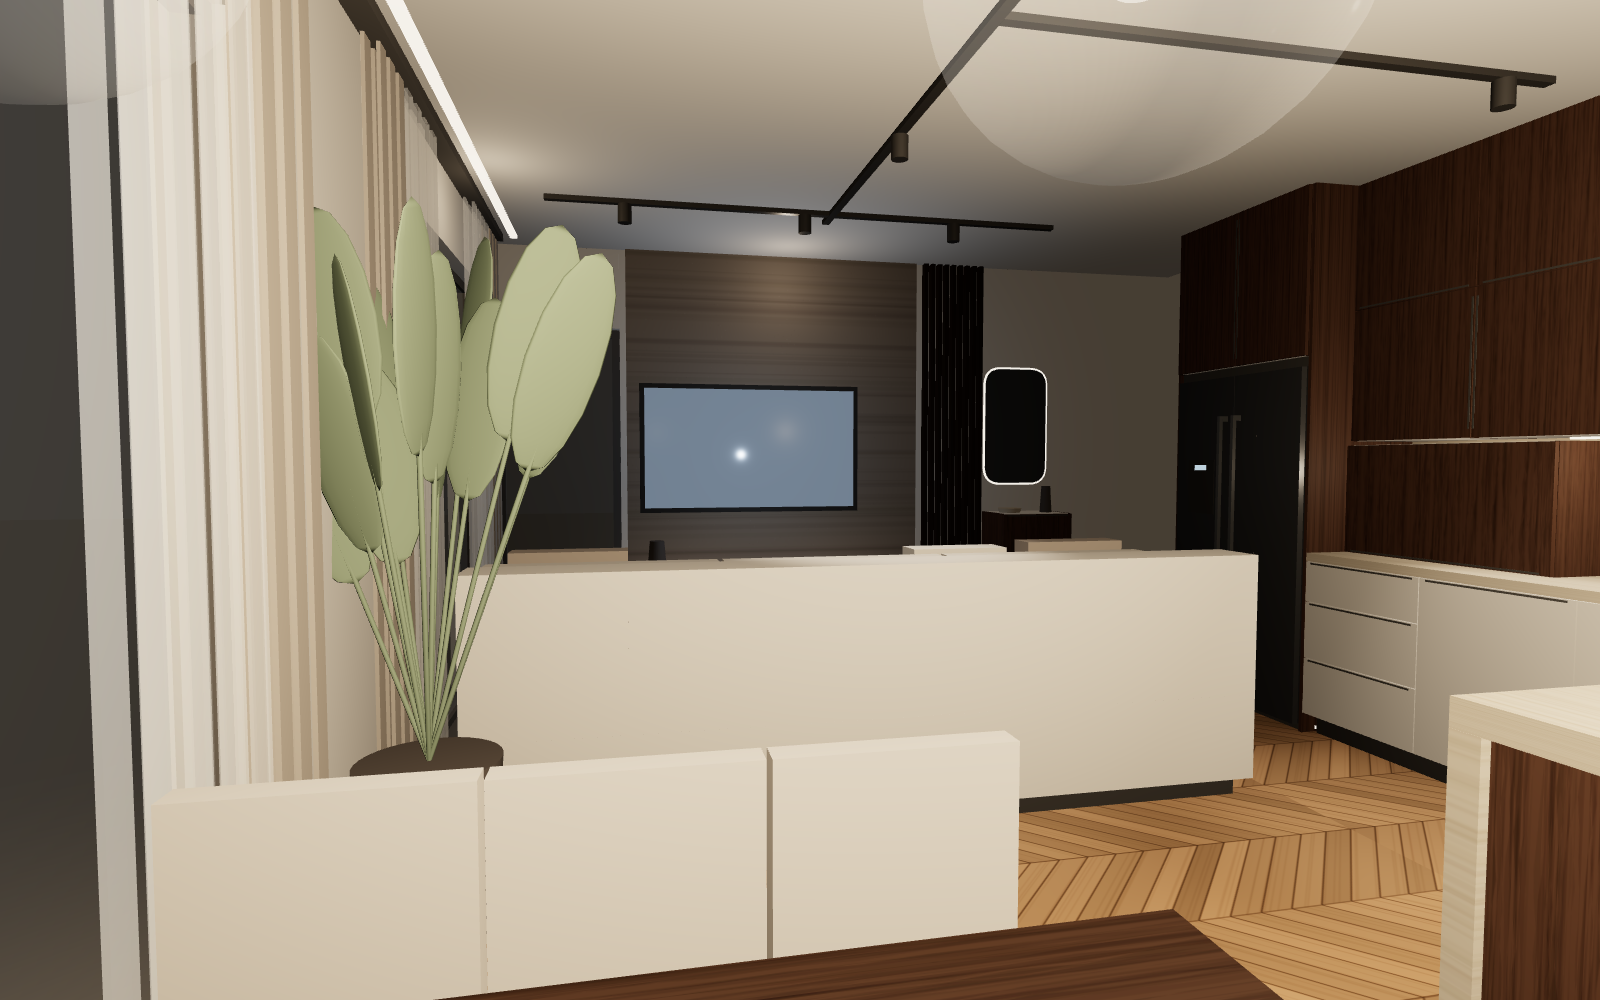
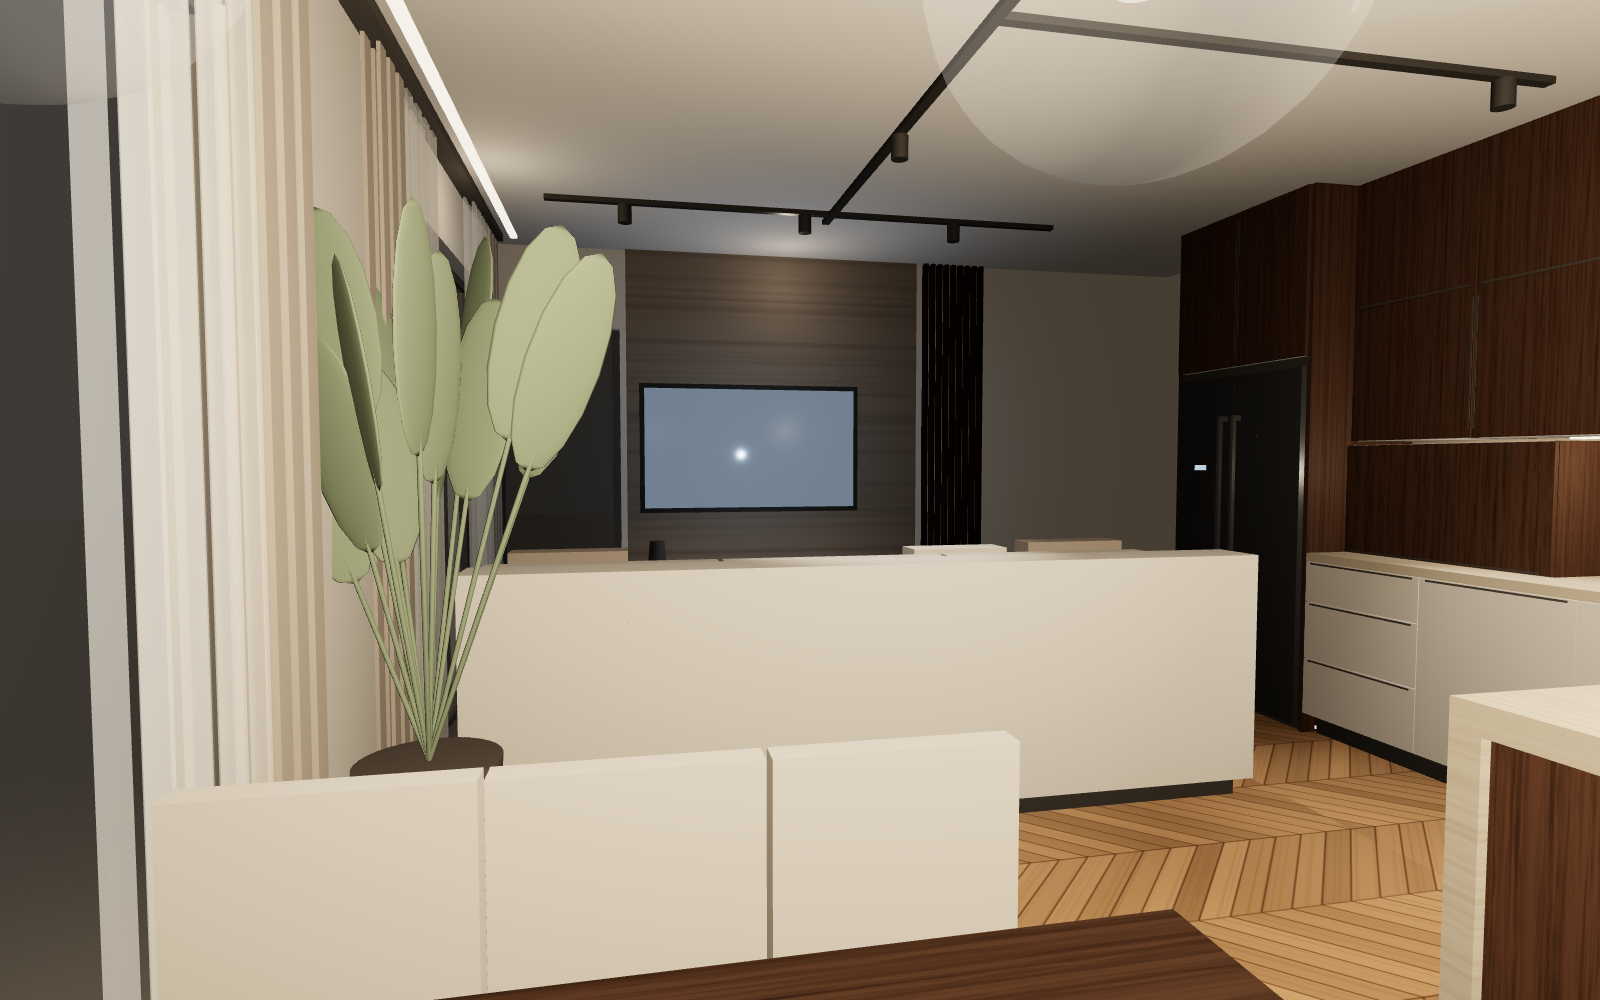
Хол + кухня v4: без шкафа с огледало до входа; остров/полуостров в списъка с варианти
Claude-Session: https://claude.ai/code/session_01WsXm7Uv6RQn4tMgSLrKRqn

Changed region(s): [[0.5938, 0.341, 0.6875, 0.558]]

diff --git a/interior/hol-kuhnya/index.html b/interior/hol-kuhnya/index.html
@@ -10,7 +10,7 @@ a{color:#8e3b22}ul{margin:0;padding-left:18px;line-height:1.9}.g{display:grid;gr
 .rooms{display:grid;grid-template-columns:repeat(auto-fill,minmax(220px,1fr));gap:12px}.room{display:block;background:#fff;border:1px solid #d8d5cd;border-radius:10px;overflow:hidden;color:inherit;text-decoration:none}
 .room img{width:100%;aspect-ratio:16/10;object-fit:cover;display:block}.room div{padding:10px 12px}.room b{display:block;font-size:16px}.room span{font-size:13px;color:#5d5a54}</style></head>
 <body><main><div class="k"><a href="../">← АПАРТАМЕНТ</a> · ИНТЕРИОР</div><h1>Хол + кухня</h1><p class="m">588 × 471 см · ≈ 27,5 м² · вход от коридора, врата към терасата, 2 прозореца по 217 см, комин в ъгъла</p>
-<section><h2>Вариант 4: пейка и двукрилен хладилник</h2><p class="m">Като v2, но с двукрилен хладилник side-by-side 91 см на мястото на витрината и маса покрай дясната стена с тапицирана пейка-ракла откъм стената и 3 стола от другата страна (6 места).</p><ul>
+<section><h2>Вариант 4: пейка и двукрилен хладилник (с полуостров)</h2><p class="m">Като v2, но с двукрилен хладилник side-by-side 91 см на мястото на витрината, без шкафа с огледало до входа и маса покрай дясната стена с тапицирана пейка-ракла откъм стената и 3 стола от другата страна (6 места).</p><ul>
 <li><a href="v4/model.html">3D модел v4</a> (нов изглед „Трапезарията“; натисни крилата на хладилника или седалките на пейката)</li>
 <li>2D план: <a href="v4/plan.pdf">PDF</a> · <a href="v4/plan.png">PNG</a></li></ul><div class="g">
 <a href="v4/plan.png"><img src="v4/plan.png" alt="План вариант 4"></a>
@@ -23,10 +23,10 @@ a{color:#8e3b22}ul{margin:0;padding-left:18px;line-height:1.9}.g{display:grid;gr
 <a href="v4/renders/6-dvukrilen-hladilnik-otvoren.png"><img src="v4/renders/6-dvukrilen-hladilnik-otvoren.png" alt="Двукрилният хладилник отворен" loading="lazy"></a>
 </div></section>
 <section><h2>Интерактивни 3D модели</h2><ul>
-<li><a href="v4/model.html">3D модел v4</a> (пейка + двукрилен хладилник)</li>
-<li><a href="model-v3.html">3D модел v3</a> (с „Отвори всички“ и „Режим гости“; изгледи, ден/вечер, разходка)</li>
-<li><a href="model-v2.html">3D модел v2</a></li>
-<li><a href="novo-razpredelenie.html">Ново разпределение (3D)</a></li></ul></section>
+<li><a href="v4/model.html">3D модел v4</a> (с полуостров; пейка + двукрилен хладилник)</li>
+<li><a href="model-v3.html">3D модел v3</a> (с остров; с „Отвори всички“ и „Режим гости“; изгледи, ден/вечер, разходка)</li>
+<li><a href="model-v2.html">3D модел v2</a> (с полуостров)</li>
+<li><a href="novo-razpredelenie.html">Ново разпределение (3D)</a> (с полуостров)</li></ul></section>
 <section><h2>2D план</h2><ul><li><a href="plan.pdf">PDF</a> · <a href="plan.png">PNG</a></li></ul><div class="g">
 <a href="plan.png"><img src="plan.png" alt="План"></a>
 </div></section>

diff --git a/interior/hol-kuhnya/v4/model.html b/interior/hol-kuhnya/v4/model.html
@@ -622,25 +622,6 @@ button:focus-visible{outline:2px solid #d9a760;outline-offset:2px}
 
   tallLeaves(3.0,4.46,14,1.8);
 
-  // ---------- Entry: shoe cabinet with tilt-out flaps, mirror, key bowl ----------
-  var shoeMats=[std({color:'#2a2522',roughness:0.6}),std({color:'#e9e4dc',roughness:0.7}),std({color:'#7a5a40',roughness:0.6})];
-  var FS=unit(0.34,0,Math.PI/2);
-  carcass(FS,-1.45,-0.95,0.2,1.0,0.32,M.walnut);
-  box(-1.432,-0.968,0.594,0.606,-0.3,0,M.walnut,{parent:FS});
-  function shoes(g,x1,x2,hh){
-    box(x1+0.03,x2-0.03,0.02,0.032,-0.26,-0.03,M.inside,{parent:g});
-    for(var i=0;i<2;i++){var sx=x1+0.05+i*0.22,mt=shoeMats[(i+Math.round(hh*10))%3];
-      box(sx,sx+0.08,0.032,0.12,-0.25,-0.04,mt,{parent:g});box(sx+0.1,sx+0.18,0.032,0.12,-0.25,-0.04,mt,{parent:g});}
-  }
-  flapDown(FS,-1.45,-0.95,0.6,0.998,M.walnut,'горния шкаф за обувки',0.6,null,null,shoes);
-  flapDown(FS,-1.45,-0.95,0.202,0.598,M.walnut,'долния шкаф за обувки',0.6,null,null,shoes);
-  box(0.03,0.32,0.185,0.195,0.97,1.43,led,{cast:false,noHit:true});
-  pl(0.2,0.1,1.2,'#ffd2a0',0.35,1.0);
-  cyl(0.18,1.32,0.07,1.0,1.03,M.travertine,24,0.08);cyl(0.2,1.06,0.04,1.0,1.18,M.pot,16,0.03);
-  function rrect(w,h,r){var sh=new THREE.Shape(),x=-w/2,y=-h/2;sh.moveTo(x+r,y);sh.lineTo(x+w-r,y);sh.quadraticCurveTo(x+w,y,x+w,y+r);sh.lineTo(x+w,y+h-r);sh.quadraticCurveTo(x+w,y+h,x+w-r,y+h);sh.lineTo(x+r,y+h);sh.quadraticCurveTo(x,y+h,x,y+h-r);sh.lineTo(x,y+r);sh.quadraticCurveTo(x,y,x+r,y);return new THREE.ShapeGeometry(sh,16);}
-  var hallMirror=new THREE.Mesh(rrect(0.46,0.8,0.12),std({color:'#b8c0c2',roughness:0.06,metalness:0.85}));
-  hallMirror.rotation.y=Math.PI/2;hallMirror.position.set(0.014,1.6,1.2);scene.add(hallMirror);
-  var hmHalo=new THREE.Mesh(rrect(0.49,0.83,0.135),led);hmHalo.rotation.y=Math.PI/2;hmHalo.position.set(0.008,1.6,1.2);scene.add(hmHalo);
   cyl(4.0,0.18,0.07,0.9,1.02,M.travertine,24,0.08);
   for(var hb=0;hb<26;hb++){var ha=seed()*6.283,hr=seed()*0.07;var hs=new THREE.Mesh(new THREE.IcosahedronGeometry(0.015+seed()*0.015,0),M.leaf);hs.scale.set(1,1.6,0.4);hs.rotation.set(seed()*3,seed()*3,0);hs.position.set(4.0+Math.cos(ha)*hr,1.04+seed()*0.12,0.18+Math.sin(ha)*hr);scene.add(hs);}
 
@@ -694,7 +675,7 @@ button:focus-visible{outline:2px solid #d9a760;outline-offset:2px}
   // ---------- Walk mode ----------
   var walk=false,yaw=-2.3,pitch=-0.1,EYE=1.6,R=0.2;
   var obstacles=[[1.0,2.0,0,0.64],[2.0,5.55,0,0.62],[5.26,W,0,1.58],[4.26,W,1.58,2.42],
-    [4.55,5.39,3.2,4.6],[4.11,4.55,3.23,4.57],[5.43,W,3.2,4.58],[2.8,3.2,4.26,4.66],[1.6,2.65,1.45,4.45],[0.8,1.6,3.7,4.45],[0.8,1.3,2.55,3.4],[0,0.42,2.2,3.88],[0,0.05,1.47,3.9],[0,0.34,0.95,1.45]];
+    [4.55,5.39,3.2,4.6],[4.11,4.55,3.23,4.57],[5.43,W,3.2,4.58],[2.8,3.2,4.26,4.66],[1.6,2.65,1.45,4.45],[0.8,1.6,3.7,4.45],[0.8,1.3,2.55,3.4],[0,0.42,2.2,3.88],[0,0.05,1.47,3.9]];
   function free(x,z){
     if(x<R||x>W-R||z<R||z>D-R)return false;
     for(var i=0;i<obstacles.length;i++){var o=obstacles[i];if(x>o[0]-R&&x<o[1]+R&&z>o[2]-R&&z<o[3]+R)return false;}
